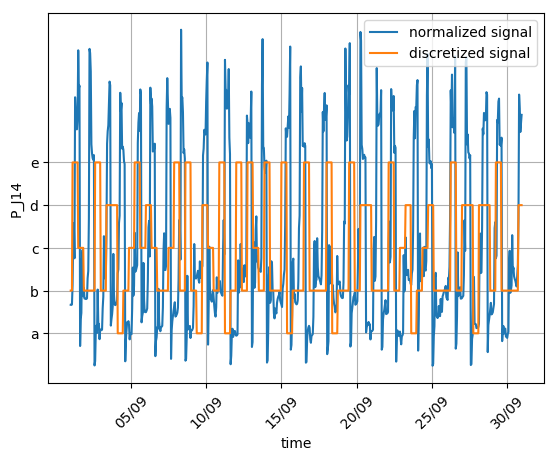
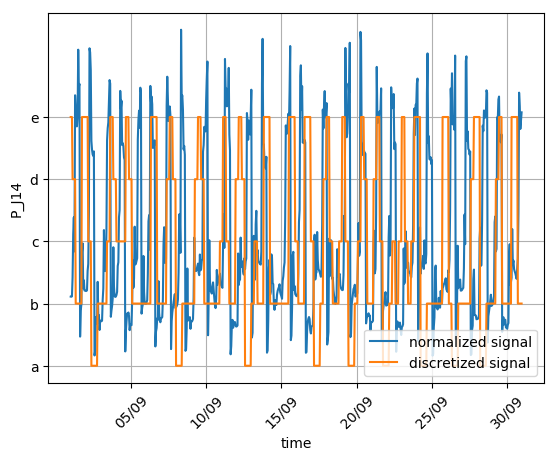
More discretization

diff --git a/anomaly_detection/discretization.py b/anomaly_detection/discretization.py
@@ -6,6 +6,7 @@ from saxpy.sax import sax_by_chunking
 from saxpy.znorm import znorm
 from math import ceil
 from nltk import ngrams
+from anomaly_detection import sax
 import warnings
 warnings.filterwarnings("ignore")
 
@@ -26,7 +27,7 @@ def add_labels(df, test=True):
     else:
         df.loc['2016-09-13 23': '2016-09-16 00', 'ATT_FLAG'] = 1
         df.loc['2016-09-26 11': '2016-09-27 10', 'ATT_FLAG'] = 1
-        df.loc['2016-10-09 16': '2016-10-11 20', 'ATT_FLAG'] = 1
+        df.loc['2016-10-09 09': '2016-10-11 20', 'ATT_FLAG'] = 1
         df.loc['2016-10-29 19': '2016-11-02 16', 'ATT_FLAG'] = 1
         df.loc['2016-11-26 17': '2016-11-29 04', 'ATT_FLAG'] = 1
         df.loc['2016-12-06 07': '2016-12-10 04', 'ATT_FLAG'] = 1
@@ -39,11 +40,11 @@ def add_labels(df, test=True):
 def confusion_results(predicted, true):
     TP, FP, TN, FN = 0, 0, 0, 0
     for p, t in zip(predicted, true):
-        if p and t:
+        if p and t == 1:
             TP += 1
-        elif p and t!=1:
+        elif p and t != 1:
             FP += 1
-        elif not p and t:
+        elif not p and t == 1:
             FN += 1
         else:
             TN += 1
@@ -62,17 +63,19 @@ def uncompress_labels(compressed_data, n, w):
 
 def discretize_data(data, w, features, start_date, end_date, dataset, plotting):
     alphabet = 5
-    symbol_to_number = {'a': -1, 'b': -0.5, 'c': 0, 'd': 0.5, 'e': 1}
+    symbol_to_number = {'a': -1.5, 'b': -0.75, 'c': 0, 'd': 0.75, 'e': 1.5}
+    number_to_symbol = {'0': 'a', '1': 'b', '2': 'c', '3': 'd', '4': 'e'}
     sax_seqs = {}
     for feature in features:
         print('------------------------------------- Discretizing %s -------------------------------------' % feature)
-        sax_str = sax_by_chunking(np.array(data[feature]), w, alphabet)
+        # sax_str = sax_by_chunking(np.array(data[feature]), w, alphabet)
+        sax_str, _ = sax.to_letter_rep(np.array(data[feature]), w, alphabet)
         sax_seqs[feature] = sax_str
 
         if plotting:
             normalized_signal = znorm(np.array(data[feature]))
             discrete = uncompress_labels(sax_str, len(normalized_signal), w)
-            discrete = [symbol_to_number[d] for d in discrete]
+            discrete = [symbol_to_number[number_to_symbol[d]] for d in discrete]
 
             fig = plt.figure()
             ax = fig.add_subplot(111)
@@ -86,7 +89,7 @@ def discretize_data(data, w, features, start_date, end_date, dataset, plotting):
             plt.xticks(rotation=45)
             plt.yticks(np.array(list(symbol_to_number.values())), tuple(symbol_to_number.keys()))
             plt.grid()
-            plt.legend()
+            plt.legend(loc='lower right')
             plt.savefig('plots/sax/%s_discretization_%s.png' % (dataset, feature), bbox_inches='tight')
     return sax_seqs
 
@@ -94,14 +97,11 @@ def discretize_data(data, w, features, start_date, end_date, dataset, plotting):
 def train_ngram(dsc_train, w):
     # states object
     states = {}
-    sequences = {}
 
     # get the ngrams for the training data
-    all_ngrams = ngrams(list(dsc_train), w)
+    all_ngrams = ngrams(dsc_train, w)
     cnt = 0.0
     prev = ""
-    prev_key = ""
-    seq = 0
     try:
         while True:
             # get the next gram
@@ -114,37 +114,26 @@ def train_ngram(dsc_train, w):
             # check if the transition already existed
             states[key] = states[key] + 1 if key in states.keys() else 1
 
-            # check if greater subsequence
-            if prev_key != key:
-                if prev_key != '':
-                    if prev_key not in sequences.keys():
-                        sequences[prev_key] = seq
-                    else:
-                        if sequences[prev_key] < seq:
-                            sequences[prev_key] = seq
-                seq = 1
-            else:
-                seq += 1
-
             cnt += 1
             # store the old key
             prev = curr
-            prev_key = key
     except StopIteration:
         pass
 
     for key in states.keys():
         states[key] = states[key] / cnt
 
-    return states, sequences
+    return states
 
 
-def test_ngram(dsc_test, w, threshold, states, sequences):
-    test_grams = ngrams(list(dsc_test), w)
+def test_ngram(dsc_test, w, threshold, threshold1, states, states1):
+    test_grams = ngrams(dsc_test, w)
     prev = ""
     anomalies = []
-    prev_key = ""
-    seq = 0
+
+    stat_1 = 0
+    stat_2 = 0
+    stat_3 = 0
 
     try:
         while True:
@@ -158,23 +147,26 @@ def test_ngram(dsc_test, w, threshold, states, sequences):
             # check the odds of this transition
             if prev == "":
                 anomalies += [0]
-            elif key not in states.keys():
+            elif key not in states.keys() and key not in states1.keys():
+                stat_1 += 1
                 anomalies += [1]
-            elif states[key] < threshold:
+            elif key in states.keys() and key in states1.keys() and abs(states1[key] - states[key]) > threshold1:
+                stat_3 += 1
                 anomalies += [1]
-            elif seq > sequences[key]:
+            elif key in states1.keys() and states1[key] < threshold:
+                stat_2 += 1
                 anomalies += [1]
             else:
                 anomalies += [0]
 
-            # update subsequence
-            seq = 1 if prev_key != key else seq + 1
-
             # store the old key
             prev = curr
-            prev_key = key
     except StopIteration:
         pass
+
+    print('not existing: ', stat_1)
+    print('low: ', stat_2)
+    print('big diff: ', stat_3)
 
     return anomalies
 
@@ -209,27 +201,24 @@ if __name__ == '__main__':
 
     print('Discretizing the data with SAX...')
     # ['L_T1', 'L_T3', 'L_T4', 'L_T5', 'L_T6', 'L_T7', 'F_PU1', 'F_PU4', 'F_PU10', 'P_J14', 'P_J422']
-    dsc_sensors = discretize_data(train_df1, 1000, ['L_T1', 'F_PU4', 'P_J14'], '2014-09-01', '2014-09-30', 'train1',
-                                  False)
-    dsc_sensors_tr2 = discretize_data(train_df2, 1000, ['L_T1', 'F_PU4', 'P_J14'], '2016-07-04', '2016-07-30', 'train2',
+    dsc_sensors = discretize_data(train_df1, 2000, ['L_T7'], '2014-09-01', '2014-09-30', 'train1',
+                                  True)
+    dsc_sensors_tr2 = discretize_data(train_df2, 1000, ['L_T7'], '2016-07-04', '2016-07-30', 'train2',
                                       False)
-    dsc_sensors_tst = discretize_data(test_df, 1000, ['L_T1', 'F_PU4', 'P_J14'], '2017-01-04', '2017-01-30', 'test',
+    dsc_sensors_tst = discretize_data(test_df, 550, ['L_T7'], '2017-01-04', '2017-01-30', 'test',
                                       False)
 
     print('N-gram calculation...')
     ngram_results = {}
     for sensor in dsc_sensors.keys():
         print('------------------------------------- Training on %s -------------------------------------' % sensor)
-        states, sequences = train_ngram(dsc_sensors[sensor], 2)
-        threshold = 1.01
-        max_Scm = 0
-        for t in [1e-3, 1e-4, 1e-5, 1e-6]:
-            trained_anomalies = test_ngram(dsc_sensors_tr2[sensor], 2, t, states, sequences)
-            uncompressed_anomalies = uncompress_labels(trained_anomalies, len(train2_anomalies), len(trained_anomalies))
-            TP, FP, TN, FN = confusion_results(uncompressed_anomalies, list(train2_anomalies))
-            print('TP: %d, FP: %d, TN: %d, FN: %d' % (TP, FP, TN, FN))
-            if (TP/(TP+FN) + TN/(TN+FP))/2 > max_Scm:
-                threshold = t
-        anomalies = test_ngram(dsc_sensors_tst[sensor], 2, threshold, states, sequences)
+        states = train_ngram(dsc_sensors[sensor], 2)
+        states_1 = train_ngram(dsc_sensors_tr2[sensor], 2)
+        threshold = 0.0015
+        threshold1 = 0.025
+        anomalies = test_ngram(dsc_sensors_tst[sensor], 2, threshold, threshold1, states, states_1)
         ngram_results[sensor] = uncompress_labels(anomalies, len(true_anomalies), len(anomalies))
+        TP, FP, TN, FN = confusion_results(ngram_results[sensor], list(true_anomalies))
+        print('------------------- Test results -------------------')
+        print('TP: %d, FP: %d, TN: %d, FN: %d' % (TP, FP, TN, FN))
         plot_anomalies(true_anomalies, ngram_results[sensor], sensor)

diff --git a/anomaly_detection/sax.py b/anomaly_detection/sax.py
@@ -1,0 +1,102 @@
+import math
+import numpy as np
+
+breakpoints = {'3': [-0.43, 0.43],
+               '4': [-0.67, 0, 0.67],
+               '5': [-0.84, -0.25, 0.25, 0.84],
+               '6': [-0.97, -0.43, 0, 0.43, 0.97],
+               '7': [-1.07, -0.57, -0.18, 0.18, 0.57, 1.07],
+               '8': [-1.15, -0.67, -0.32, 0, 0.32, 0.67, 1.15],
+               '9': [-1.22, -0.76, -0.43, -0.14, 0.14, 0.43, 0.76, 1.22],
+               '10': [-1.28, -0.84, -0.52, -0.25, 0, 0.25, 0.52, 0.84, 1.28],
+               '11': [-1.34, -0.91, -0.6, -0.35, -0.11, 0.11, 0.35, 0.6, 0.91, 1.34],
+               '12': [-1.38, -0.97, -0.67, -0.43, -0.21, 0, 0.21, 0.43, 0.67, 0.97, 1.38],
+               '13': [-1.43, -1.02, -0.74, -0.5, -0.29, -0.1, 0.1, 0.29, 0.5, 0.74, 1.02, 1.43],
+               '14': [-1.47, -1.07, -0.79, -0.57, -0.37, -0.18, 0, 0.18, 0.37, 0.57, 0.79, 1.07, 1.47],
+               '15': [-1.5, -1.11, -0.84, -0.62, -0.43, -0.25, -0.08, 0.08, 0.25, 0.43, 0.62, 0.84, 1.11, 1.5],
+               '16': [-1.53, -1.15, -0.89, -0.67, -0.49, -0.32, -0.16, 0, 0.16, 0.32, 0.49, 0.67, 0.89, 1.15, 1.53],
+               '17': [-1.56, -1.19, -0.93, -0.72, -0.54, -0.38, -0.22, -0.07, 0.07, 0.22, 0.38, 0.54, 0.72, 0.93, 1.19,
+                      1.56],
+               '18': [-1.59, -1.22, -0.97, -0.76, -0.59, -0.43, -0.28, -0.14, 0, 0.14, 0.28, 0.43, 0.59, 0.76, 0.97,
+                      1.22, 1.59],
+               '19': [-1.62, -1.25, -1, -0.8, -0.63, -0.48, -0.34, -0.2, -0.07, 0.07, 0.2, 0.34, 0.48, 0.63, 0.8, 1,
+                      1.25, 1.62],
+               '20': [-1.64, -1.28, -1.04, -0.84, -0.67, -0.52, -0.39, -0.25, -0.13, 0, 0.13, 0.25, 0.39, 0.52, 0.67,
+                      0.84, 1.04, 1.28, 1.64]
+}
+
+
+def alphabetize(paa_data, alphabet_size):
+    alphabetized = ''
+    beta = breakpoints[str(alphabet_size)]
+    for i in range(0, len(paa_data)):
+        letter = False
+        for j in range(0, len(beta)):
+            if paa_data[i] < beta[j]:
+                alphabetized += str(j)
+                letter = True
+                break
+        if not letter:
+            alphabetized += str(len(beta))
+
+    return alphabetized
+
+
+def PAA(x, word_size):
+    n = len(x)
+    step_float = n / float(word_size)
+    step = int(math.ceil(step_float))
+    chunk_start = 0
+    approximated = []
+    indices = []
+    i = 0
+    while chunk_start <= n - step:
+        chunk = np.array(x[chunk_start:int(chunk_start + step)])
+        approximated.append(np.mean(chunk))
+        indices.append((chunk_start, int(chunk_start + step)))
+        i += 1
+        chunk_start = int(i * step_float)
+    return np.array(approximated), indices
+
+
+def to_letter_rep(data, word_size, alphabet_size):
+    (paa_data, indices) = PAA(normalize(data), word_size)
+    return alphabetize(paa_data, alphabet_size), indices
+
+
+def normalize(data, eps=1e-6):
+    x = np.asanyarray(data)
+    if x.std() < eps:
+        return [0]*len(x)
+    else:
+        return (x - x.mean()) / x.std()
+
+
+def sliding_window(data, window, move, word_size, alphabet_size):
+    ptr = 0
+    n = len(data)
+    window_indices = []
+    str_representation = []
+    while ptr < n-window+1:
+        chunk = data[ptr:ptr+window]
+        (chunk_str, indices) = to_letter_rep(chunk, word_size, alphabet_size)
+        str_representation.append(chunk_str)
+        window_indices.append((ptr, ptr+window))
+        ptr += move
+    return str_representation, window_indices
+
+
+def get_results(letter_to_rep_result):
+    numerical_sequence = letter_to_rep_result[0]
+    timestamps = letter_to_rep_result[1]
+
+    alphabet_list = []
+    time_list = []
+
+    datalength = len(numerical_sequence)
+
+    for i in np.arange(0, datalength):
+        alphabet_list.append(numerical_sequence[i])
+        time_list.append(timestamps[i][0])
+
+    return time_list, alphabet_list
